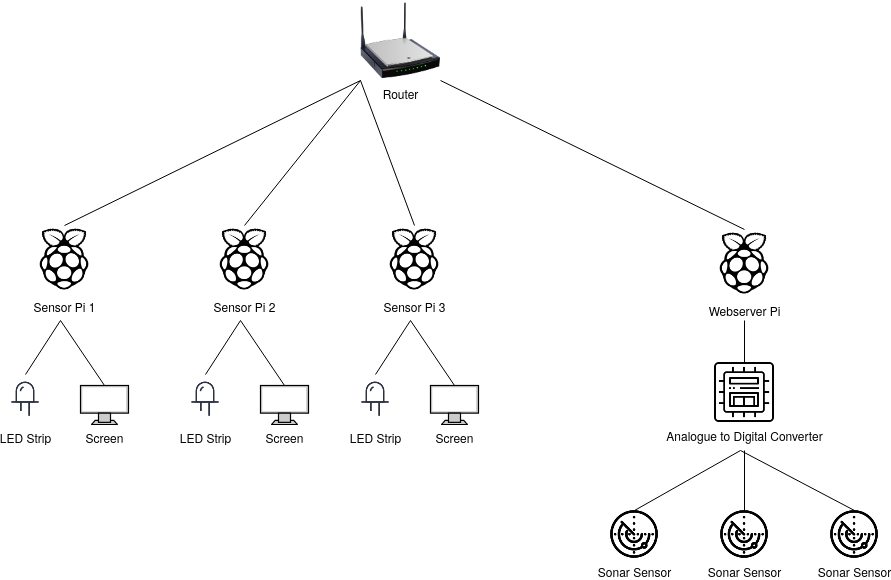
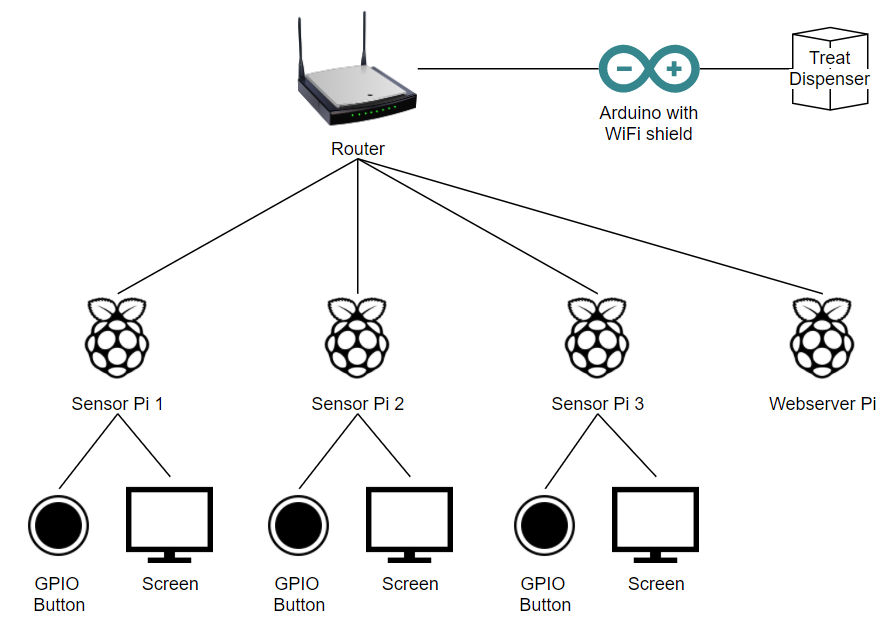
update backend documentation

diff --git a/docs/usage/managingfiles.rst b/docs/usage/managingfiles.rst
@@ -38,7 +38,10 @@ You can also select "Delete" and then confirm in the popup by selecting "Delete"
   :width: 800
   :alt: Vending Machine Experiment Management confirm delete popup
 
-Managing Stimuli
+In order to create a new experiment, you can either use the form to generate a standard experiment or upload a python file.
+An example python file is linked at the top of the "Manage Experiments" page.
+
+Managing Stimuli Groups
 ################
 From the home page, select "Manage Stimuli" and you will see the following stimuli file management page.
 
@@ -46,9 +49,33 @@ From the home page, select "Manage Stimuli" and you will see the following stimu
   :width: 800
   :alt: Vending Machine Stimuli Management page
 
-On this stimuli management page, you can select the "View" button for any of the stimuli files to download that file.
-You can also select "Delete" and then confirm in the popup by selecting "Delete" again to delete a stimuli file.
+On this stimuli management page, you can select the "View" button to open any stimuli folder. You can also select
+"Delete" and then confirm in the popup by selecting "Delete" again to delete a stimuli group folder. However,
+you cannot deleted the "Fixations" folder. In order to add a new group, a unique name can be entered at the top of this 
+page to create a blank folder.
 
-.. image:: ../_static/images/confirm_delete_stimuli.png
+.. image:: ../_static/images/confirm_delete_group.png
+  :width: 800
+  :alt: Vending Machine Stimuli Management confirm delete popup
+
+Managing Stimuli
+################
+After choosing the "View" button on a stimuli group folder, you will be navigated to a page containing all the
+stimuli images in that group. 
+
+.. image:: ../_static/images/stimuli_folder_overview.png
+  :width: 800
+  :alt: Vending Machine Stimuli Group Management page
+
+You may select to "View" a specific stimuli card. You can also select "Delete" and 
+then confirm in the popup by selecting "Delete" again to delete a stimuli file. 
+
+.. image:: ../_static/images/confirm_delete__stimuli.png
+  :width: 800
+  :alt: Vending Machine Stimuli Management confirm delete popup
+
+Additionally, you can "Copy to Folder" stimuli, which allows you to copy a file to another group folder.
+
+.. image:: ../_static/images/copy_stimuli.png
   :width: 800
   :alt: Vending Machine Stimuli Management confirm delete popup

diff --git a/docs/archived/hardware_overview.rst b/docs/archived/hardware_overview.rst
@@ -1,7 +1,7 @@
 Hardware Overview
 =================
 
-.. image:: ../_static/images/equipment_diagram.png
+.. image:: ../_static/images/archived_equipment_diagram.png
   :width: 800
   :alt: Connected hardware components
 
@@ -11,11 +11,10 @@ Webserver Pi stores the stimuli, experiment, and log files and handles
 all the logic of running experiments. 
 
 The other three Raspberry Pis are used to interface with the additional
-hardware. Each Sensor Pi has a GPIO button and a screen. The GPIO buttons send
-an input to the rasberry pis so it can be determined which stimuli was selected
-and the appropriate outcome. The screens are used to display stimuli to the elephant.
-They will flash white when a correct outcome is selected. Note: in the current design
-the screen is the button that the elephant will push.
+hardware. Each Sensor Pi has an LED strip and a screen. The LED strip is
+used to provide visual feedback to the elephant about whether or not the
+selection it made was correct as determined by the experiment file. The
+screens are used to display stimuli to the elephant.
 
 
 Parts List
@@ -28,9 +27,9 @@ Parts List
 +-------------------------------+----------------------------------+----------+
 | Raspberry Pi                  | Raspberry Pi 3 B                 | 4        |
 +-------------------------------+----------------------------------+----------+
-| GPIO Buttons                  | Unknown                          | 3        |
+| Sonar Sensor                  | MaxBotix MB1330 XL-MaxSonar-AE3  | 3        |
 +-------------------------------+----------------------------------+----------+
-| Arduino                       | Uno Rev3                         | 1        |
+| Led Strip                     | WS281X RGB LED Strip             | 3        |
 +-------------------------------+----------------------------------+----------+
 | Monitor                       | Unknown                          | 3        |
 +-------------------------------+----------------------------------+----------+

diff --git a/docs/index.rst b/docs/index.rst
@@ -9,8 +9,7 @@ Welcome to Elephant Vending Machine's documentation!
    hardware/router
    hardware/webserverpi
    hardware/sensorpi
-   hardware/sensorwiring
-   hardware/ledwiring
+   hardware/gpiowiring
 
 .. toctree::
    :maxdepth: 2
@@ -19,6 +18,15 @@ Welcome to Elephant Vending Machine's documentation!
    usage/guiaccess
    usage/runningexperiments
    usage/managingfiles
+
+.. toctree::
+   :maxdepth: 2
+   :caption: Archived Documentation
+
+   archived/overview
+   archived/hardware_overview
+   archived/sensorwiring
+   archived/ledwiring
    
 
 Indices and tables

diff --git a/docs/hardware/gpiowiring.rst b/docs/hardware/gpiowiring.rst
@@ -1,0 +1,10 @@
+GPIO Wiring
+=============
+
+There will be 3 "sensor pis", and each will be attached to a GPIO button that will pass in signals to its pi. Repeat this process for each "sensor pi".
+
+For reference, here is the pintout of the Raspberry Pi:
+
+.. image:: ../_static/images/raspberry_pi_pinout.png
+  :width: 800
+  :alt: Raspberry Pi Pinout

diff --git a/docs/archived/overview.rst b/docs/archived/overview.rst
@@ -1,0 +1,7 @@
+Archived Overview
+=================
+
+This project has been worked on by OSU capstone teams in SP20 and AU21. 
+Changes in the project called for the removal of LED strips, maestro, and sonar sensors.
+Their documentation is still included in this section in case it is needed
+for future work on this project.
